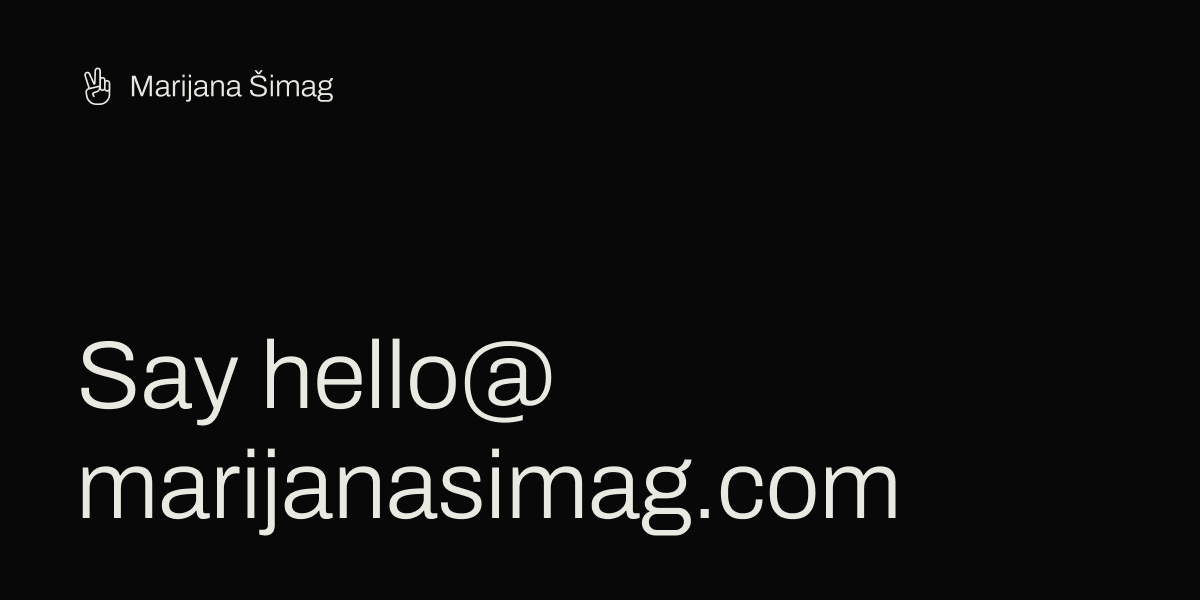
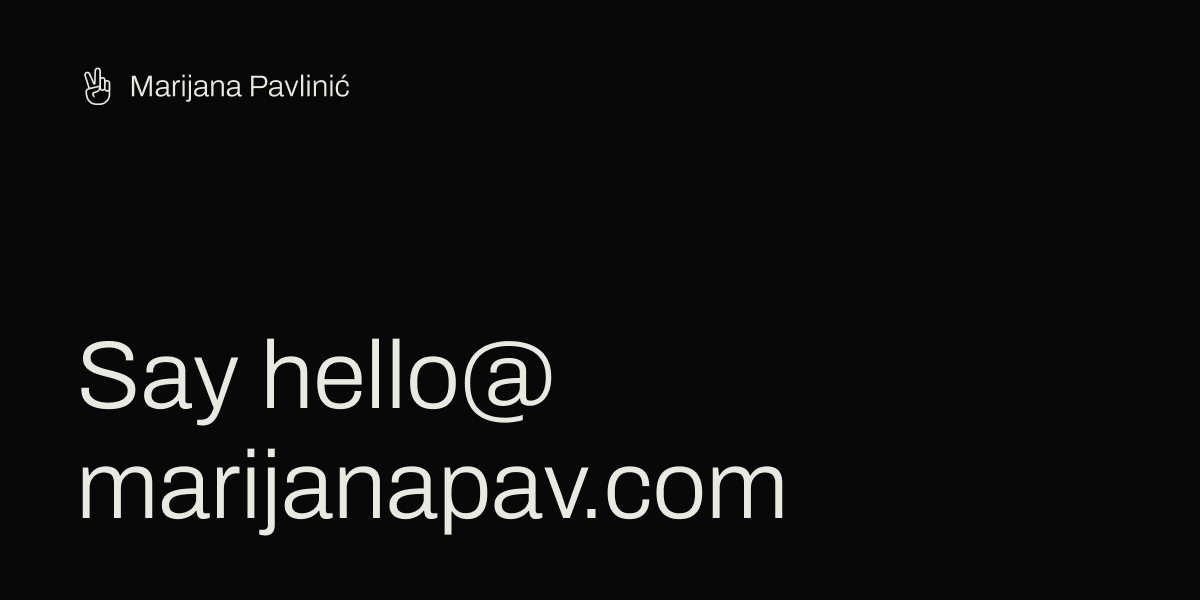
surname change

Changed region(s): [[0.37, 0.75, 0.7708, 0.9], [0.185, 0.12, 0.3083, 0.18]]

diff --git a/src/app/contact/page.tsx b/src/app/contact/page.tsx
@@ -7,30 +7,30 @@ import Header from '../components/Header';
 const links = [
   {
     label: 'Twitter',
-    href: 'https://twitter.com/MarijanaSimag',
+    href: 'https://twitter.com/marijanapav',
   },
   {
     label: 'LinkedIn',
-    href: 'https://www.linkedin.com/in/marijana-simag/',
+    href: 'https://www.linkedin.com/in/marijana-pavlinic/',
   },
   {
     label: 'Instagram',
-    href: 'https://www.instagram.com/marijanasimag/',
+    href: 'https://www.instagram.com/marijanapavlinic/',
   },
   {
     label: 'Dribbble',
-    href: 'https://dribbble.com/marijanasimag',
+    href: 'https://dribbble.com/marijanapav',
   },
   {
     label: 'GitHub',
-    href: 'https://www.github.com/marijanasimag',
+    href: 'https://www.github.com/marijanapav',
   },
 ];
 
-const email = 'hello@marijanasimag.com';
+const email = 'hello@marijanapav.com';
 
 export const metadata = {
-  title: 'Contact | Marijana Šimag',
+  title: 'Contact | Marijana Pavlinić',
   description: 'Reach out to say hi, talk future projects or talk about my cat.',
 };
 
@@ -49,7 +49,7 @@ export default function Contact() {
             >
               hello@marijana
               <wbr />
-              simag.com
+              pav.com
             </a>
             <CopyToClipboard content={email} />
           </div>

diff --git a/src/app/components/Header.tsx b/src/app/components/Header.tsx
@@ -34,7 +34,7 @@ export default function Header({ children }: { children?: ReactNode }) {
             ['text-main-theme-1']: y > headerTriggerY,
           })}
         />
-        <span className="hidden pr-1 md:inline">Marijana Šimag</span>
+        <span className="hidden pr-1 md:inline">Marijana Pavlinić</span>
       </Link>
       {children && (
         <div className="order-3 mt-4 w-full lg:order-none lg:mt-0 lg:w-auto">{children}</div>

diff --git a/src/app/work/page.tsx b/src/app/work/page.tsx
@@ -4,7 +4,7 @@ import ViewLogger from '~/src/components/ViewCounter';
 import { Filter, projects } from './constants';
 
 export const metadata = {
-  title: 'Work | Marijana Šimag',
+  title: 'Work | Marijana Pavlinić',
   description:
     'Explore a curated selection of work projects and a few passion projects ranging from print to digital.',
 };
